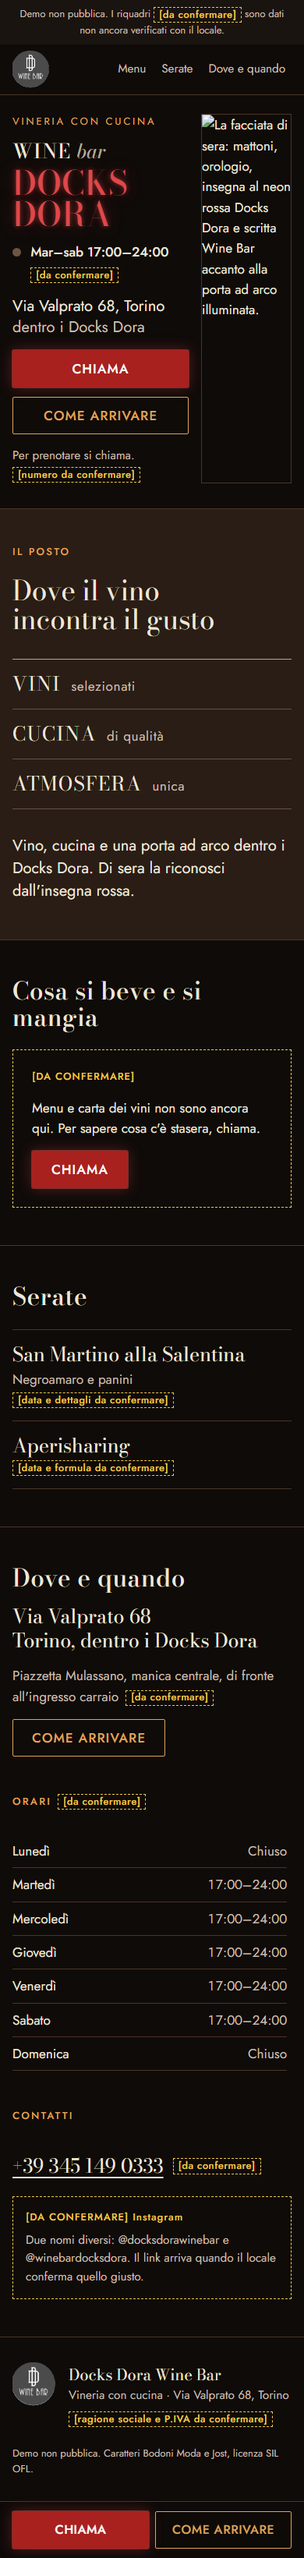
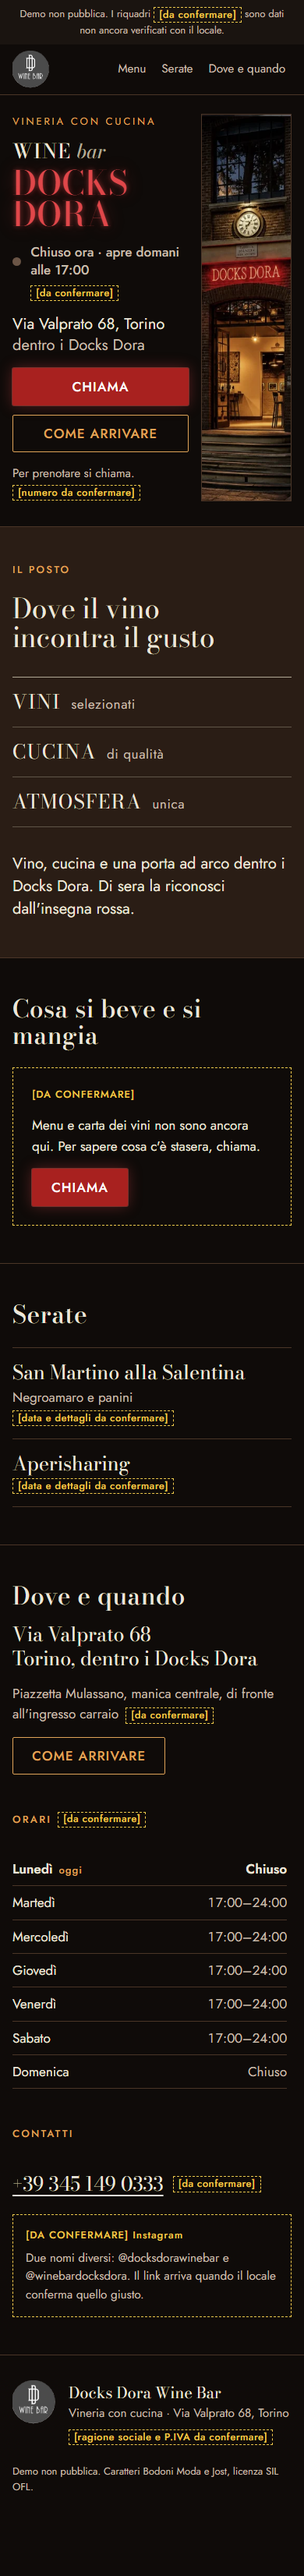
Fase 5: verifica, correzioni (barra fissa, gerarchia Il posto, prima schermata desktop)

diff --git a/css/style.css b/css/style.css
@@ -72,6 +72,7 @@ html {
   -webkit-text-size-adjust: 100%;
   scroll-behavior: smooth;
   scroll-padding-top: var(--s-4);
+  scroll-padding-bottom: calc(var(--altezza-barra) + var(--s-4));
 }
 
 body {
@@ -461,6 +462,9 @@ a { color: var(--ambra); text-underline-offset: 0.2em; }
   border-top: 1px solid var(--mattone-bordo);
   backdrop-filter: blur(6px);
 }
+/* JS nasconde la barra finché i pulsanti della prima schermata sono visibili */
+.barra { transition: transform 0.2s ease-out; }
+.barra--nascosta { transform: translateY(110%); visibility: hidden; transition: transform 0.2s ease-out, visibility 0s 0.2s; }
 .barra .bottone { padding-inline: var(--s-2); letter-spacing: 0.03em; font-size: 1rem; white-space: nowrap; }
 
 /* Da 360px in giù: un po' più stretto */
@@ -510,5 +514,5 @@ a { color: var(--ambra); text-underline-offset: 0.2em; }
 @media (prefers-reduced-motion: reduce) {
   html { scroll-behavior: auto; }
   .insegna__nome { animation: none; }
-  .bottone { transition: none; }
+  .bottone, .barra, .barra--nascosta { transition: none; }
 }

diff --git a/js/main.js b/js/main.js
@@ -260,7 +260,18 @@ const DATI = {
     box.replaceWith(ul);
   }
 
+  // La barra fissa compare quando Chiama / Come arrivare della prima schermata escono dallo schermo
+  function gestisciBarra() {
+    const barra = document.querySelector(".barra");
+    const azioni = document.querySelector(".azioni");
+    if (!barra || !azioni || !("IntersectionObserver" in window)) return;
+    new IntersectionObserver(([voce]) => {
+      barra.classList.toggle("barra--nascosta", voce.isIntersecting);
+    }).observe(azioni);
+  }
+
   mostraContatti();
+  gestisciBarra();
   mostraPilastri();
   mostraOrari();
   mostraStato();

diff --git a/README.md b/README.md
@@ -1,37 +1,63 @@
-# template-vetrina
+# Docks Dora Wine Bar: sito demo
 
-Punto di partenza per i siti vetrina one-page dei clienti. Contiene solo le regole
-(`CLAUDE.md`): il sito lo costruisce Claude Code.
+Sito one-page per **Docks Dora Wine Bar**, vineria con cucina in Via Valprato 68, Torino,
+dentro i Docks Dora. **Demo non pubblica**: `noindex` e `robots.txt` chiuso. Il locale non è
+stato contattato.
 
-## Nuovo cliente
+HTML, CSS e JavaScript puri, nessuna build. Generato dal template `template-vetrina`
+(regole in `CLAUDE.md`).
 
-1. Su GitHub: **Use this template → Create a new repository**, proprietario
-   `siti-web-torino`, nome del cliente in minuscolo con trattini (es. `quartin-torino`).
-   Poi clonalo sul tuo computer.
-2. Copia le foto del cliente (menu, logo, locale, slogan, cose divertenti) in
-   `img-originali/`.
-3. Apri un terminale nella cartella del progetto e lancia `claude` (modello più forte per
-   questa corsa: `/model`).
-4. Incolla il messaggio che ti prepara la chat di avvio, in questa forma:
+## Aprire il sito
+- Doppio clic su `index.html` (si apre nel browser), oppure
+- da un terminale in questa cartella: `python -m http.server 8765` e poi
+  <http://localhost:8765/>.
 
-   ```
-   Nuovo cliente: [NOME], [VIA, QUARTIERE], Torino. Tipo: [pizzeria / bar / ...].
-   Note: [quello che sai]
-   Foto in img-originali/.
-   Preferenze mie, facoltative e non vincolanti: [...]
-   Segui CLAUDE.md. Lavora da solo fino alla fine.
-   ```
+## Dove si cambiano i contenuti
+Tutti i dati modificabili stanno nell'oggetto `DATI` in cima a **`js/main.js`**:
 
-5. Al termine leggi, in questo ordine: `RAPPORTO.md`, gli screenshot in `docs/anteprime/`,
-   il menu trascritto in `STUDIO.md` e `DECISIONI.md`.
+| Cosa | Campo in `DATI` |
+|---|---|
+| Orari (per giorno, `null` = chiuso) | `orari.giorni` |
+| Togliere [da confermare] dagli orari | `orari.confermato: true` |
+| Telefono | `telefono.numero` (per il link), `telefono.testo` (come si legge), `telefono.confermato` |
+| Dove si trova dentro i Docks Dora | `comeTrovarlo.testo`, `comeTrovarlo.confermato` |
+| Instagram | `instagram: "nomeaccount"` (oggi `null`: nessun link) |
+| Serate | `eventi`: `nome`, `dettaglio`, `data` ("2026-11-11"), `confermato` |
+| Menu | `menu`: elenco di voci; finché è vuoto resta il riquadro [DA CONFERMARE] |
+| Indirizzo, tipo, claim, pilastri | `indirizzo`, `tipo`, `claim`, `pilastri` |
 
-## Repository prima, deploy dalla repository
-Per **ogni** sito si crea prima la repo dedicata qui nell'organizzazione, partendo dal template.
-Il codice e i controlli si salvano in quella repo; poi si usa l'integrazione GitHub già collegata a Vercel, si seleziona/importa la repo e si avvia **Deploy**.
-Anche gli aggiornamenti successivi passano dalla stessa repo. Un sito richiesto pubblico va verificato dal link di produzione senza login o autorizzazioni.
-Repo pubblica/privata e sito pubblico/privato sono due scelte distinte: mantieni le impostazioni concordate con l'utente.
+L'HTML contiene gli stessi testi come riserva per chi ha JavaScript spento: se cambi un dato
+in `DATI`, il sito mostra quello di `DATI`. I riquadri fissi in HTML (P.IVA nel piè di pagina)
+si cambiano direttamente in `index.html`.
 
-## Perché CLAUDE.md non cambia da solo
-È un normale file di testo. Cambia solo se lo modifichi tu o se chiedi a Claude di farlo
-("aggiungi questa regola al CLAUDE.md"). Ogni nuovo cliente riceve una copia al momento
-della creazione dal template: migliorare il template non cambia i siti già fatti.
+L'indicatore "Aperto ora / Chiuso ora" si calcola da `orari.giorni` con l'ora di Torino.
+
+## Elenco dei [DA CONFERMARE]
+1. **Orari** mar–sab 17:00–24:00, domenica e lunedì chiuso (solo dal brief).
+2. **Telefono** +39 345 149 0333 (solo dal brief). È anche il pulsante Chiama.
+3. **Posizione dentro i Docks Dora**: "piazzetta Mulassano, manica centrale, di fronte
+   all'ingresso carraio" (da vivoin.it, fonte terza).
+4. **Instagram**: brief @docksdorawinebar, locandina @winebardocksdora. Nessun link finché non
+   si sa quale è giusto.
+5. **Menu e carta vini**: non forniti.
+6. **Serate** "San Martino alla Salentina" (Negroamaro e panini) e "Aperisharing": date e
+   dettagli mancanti.
+7. **Ragione sociale e P.IVA**: non forniti.
+8. **Data di apertura**: il brief dice settembre 2026, una fonte web segnala un evento al bar
+   il 12/06/2026. Non usata nel sito.
+9. **Permesso d'uso** della foto della locandina e del logo (file originale del logo, meglio
+   se vettoriale: quello attuale è tagliato di ~5 px in alto e a sinistra).
+
+## Cartelle
+- `index.html`, `css/style.css`, `js/main.js`: il sito.
+- `img/`: immagini ottimizzate (WebP senza EXIF). `img-originali/`: originali intatti.
+  `facciata-folla.png` è esclusa da git (persone riconoscibili).
+- `fonts/`: Bodoni Moda e Jost, licenza SIL OFL (testi in `fonts/OFL-*.txt`).
+- `docs/anteprime/`: screenshot a 390, 768, 1280 px.
+- `STUDIO.md` (materiale e ricerca), `DECISIONI.md` (scelte), `RAPPORTO.md` (stato),
+  `docs/VERIFICA.md` (critica del risultato).
+- `strumenti/`: script locali (Pillow, screenshot), ignorati da git.
+
+## Rifare gli screenshot
+Con il server acceso su 8765: `node strumenti/anteprime.mjs` (usa Chrome installato).
+`strumenti/` non è in git: se manca, gli screenshot vanno rifatti a mano.

diff --git a/docs/VERIFICA.md b/docs/VERIFICA.md
@@ -1,0 +1,64 @@
+# VERIFICA: critica del sito demo
+
+Screenshot in `docs/anteprime/` (prima schermata e pagina intera a 390, 768, 1280 px),
+fatti con Chrome headless a densità 1. Data: 2 novembre 2026 (lunedì, quindi lo stato
+mostrato è "Chiuso ora · apre domani alle 17:00").
+
+## Controlli tecnici
+| Controllo | Esito |
+|---|---|
+| Errori in console | 0 a 390, 768, 1280 |
+| File 404 | 0 |
+| Scorrimento orizzontale | nessuno a 320, 390, 768, 1280 (`scrollWidth` = larghezza) |
+| Tastiera | ordine: salta al contenuto, logo, Menu, Serate, Dove e quando, Chiama, Come arrivare…; anello di focus ambra visibile (provato a 390) |
+| Bersagli touch | pulsanti 48 px, link di navigazione 44 px |
+| Contrasto | testo `#ece6da` su `#0f0b09` 15.8:1; secondario 10.8:1; ambra 9:1; Chiama bianco su `#a8211f` 7.2:1; rosso neon `#e0474a` solo su testo grande (4.8:1) |
+| Testi alternativi | foto facciata descritta; logo in testata con nome; logo nel piè decorativo (`alt=""`) |
+| prefers-reduced-motion | toglie l'accensione del neon, lo scorrimento morbido e le transizioni |
+| Apertura da file (`index.html` con doppio clic) | font e JS funzionano (provato in Chrome) |
+| Logica "aperto adesso" | usa l'ora di Torino; mar 18:00 aperto fino alle 24, dom → "apre martedì alle 17:00" (ragionata sul codice; provata dal vivo solo il lunedì) |
+
+## Test dei 5 secondi (390 px, prima schermata)
+Un estraneo vede: **Wine bar Docks Dora, vineria con cucina**, se è aperto, **Via Valprato 68,
+Torino, dentro i Docks Dora**, e due azioni: **Chiama** e **Come arrivare**. Più la foto della
+facciata col neon. Passa.
+Cosa **non** capisce: che cosa si beve e si mangia e a che prezzo. Non è un difetto del design:
+il materiale non c'è.
+
+## Scenario: venerdì sera, telefono, per strada
+- **È aperto?** Risposta nella prima schermata, zero tocchi. Ma l'orario è [da confermare]: se
+  è sbagliato, il sito dice con sicurezza una cosa falsa. È il rischio più grosso della demo.
+- **Dov'è?** Indirizzo nella prima schermata; "Come arrivare" = 1 tocco verso Google Maps.
+  Dove sta il bar dentro il complesso: 1 tocco su "Dove e quando" (o scorrendo), ed è [da
+  confermare].
+- **Cosa si beve o mangia?** 1 tocco su "Menu" e si trova solo il riquadro "non ancora qui,
+  chiama". Punto più debole.
+- **Prenotare**: 1 tocco su Chiama, sempre a portata (barra fissa che compare quando i
+  pulsanti iniziali escono dallo schermo).
+
+## Difetti trovati e cosa ho fatto
+| # | Dove, larghezza | Difetto | Perché conta | Esito |
+|---|---|---|---|---|
+| 1 | Prima schermata, 390 | Pallino dello stato da solo su una riga, testo sotto | Sembrava un elemento rotto proprio nell'informazione più importante | Corretto (griglia pallino + testo) |
+| 2 | Prima schermata, 390 | "Chiama" più stretto di "Come arrivare", allineati male | Gerarchia confusa tra le due azioni | Corretto (pulsanti a tutta larghezza su telefono) |
+| 3 | Barra fissa, 375–390 | "Come arrivare" andava a capo su due righe | Pulsante alto e sbilanciato | Corretto |
+| 4 | Prima schermata, 390 | Due "Chiama" e due "Come arrivare" visibili insieme (pulsanti + barra fissa), 75 px persi | Rumore nella schermata più preziosa | Corretto: la barra compare solo quando i pulsanti iniziali escono dallo schermo; senza JS resta sempre visibile |
+| 5 | "Il posto", tutte | Titolo "Il posto" e claim della stessa taglia e font | Gerarchia piatta: non si capiva quale fosse il messaggio | Corretto: "Il posto" diventa etichetta piccola, il claim è il titolo vero |
+| 6 | "Il posto", 1280 | Colonna destra vuota, testo schiacciato a sinistra | Squilibrio evidente su desktop | Corretto: testo a destra del claim |
+| 7 | Prima schermata, 1280 | Stato e indirizzo minuscoli rispetto al nome | Le informazioni utili si perdevano | Corretto (taglie aumentate su desktop) |
+| 8 | Testo "Il posto", tutte | Ripeteva l'indirizzo per la terza volta | Riempitivo | Riscritto: "Vino, cucina e una porta ad arco dentro i Docks Dora. Di sera la riconosci dall'insegna rossa." (porta ad arco e insegna rossa si vedono nelle foto) |
+
+## Difetti che restano
+- **Foto piccola** (310×740 px, ritagliata dalla locandina). A 1280 è mostrata a 310 px CSS:
+  su schermi ad alta densità è morbida. A 390 regge perché è stretta (~116 px). Serve una foto
+  vera della facciata, di sera, senza persone riconoscibili.
+- **Una sola foto**: sotto la prima schermata il sito è solo tipografia su nero e mattone.
+  Coerente, ma piatto. Niente galleria finché non ci sono almeno 3 foto.
+- **Il nome a 1280**: in "DOCKS DORA" la gamba della R di Bodoni Moda lascia un vuoto prima
+  della A che sembra uno spazio. Difetto del carattere a quella taglia; lasciato.
+- **Riga "Demo non pubblica"** in cima: 55 px su telefono. Va tolta quando il sito diventa vero.
+- **"Atmosfera unica"** suona da brochure, ma è scritto sulla locandina del locale: non lo
+  sostituisco (regola: le frasi del locale si riusano come sono).
+- **Identità**: grazie a neon, mattone e tipografia della locandina sembra il locale nella
+  prima schermata. Sotto, senza foto e senza menu, rischia di sembrare un buon template scuro.
+  Si risolve con contenuti veri, non con il design.

diff --git a/DECISIONI.md b/DECISIONI.md
@@ -56,4 +56,16 @@ Scelte fatte in autonomia e perché. Fonti abbreviate come in STUDIO.md: [brief]
 È quella più fedele al locale: rosso neon, mattone e luce ambra sono le tre cose che si vedono in **entrambe** le foto della facciata, e il neon è anche il segno con cui si trova la porta di sera dentro un complesso grande (criterio 4). Da C prendo l'indicatore "Aperto adesso / fino alle 24" in cima (criterio 3); da B il serif maiuscolo e il corsivo usato una volta sola, che sono la tipografia reale della locandina. Scarto B perché ricalca un'inaugurazione già passata e rischia lo snob; scarto C perché è freddo e spinge su una storia non verificata.
 
 ## Costruzione
-(vedi sotto, aggiornato durante la fase 4)
+
+| # | Decisione | Motivo |
+|---|---|---|
+| C1 | Font: Bodoni Moda (variabile, con italico) e Jost, entrambi SIL OFL, presi dai pacchetti npm `@fontsource-variable/*@5.3.0` e copiati in `fonts/` con le licenze. | Stack senza CDN; serif ad alto contrasto come la locandina, sans geometrico vicino al "WINE BAR" del logo. |
+| C2 | Prima schermata da telefono: testo a sinistra, striscia verticale della facciata a destra (~116 px). | La foto è verticale e piccola: in una striscia stretta resta nitida e porta l'identità nella prima schermata senza spingere giù orari e azioni (criterio 1). |
+| C3 | Pulsante Chiama rosso insegna `#a8211f` con bianco, "Come arrivare" in contorno ambra. | Un'azione principale riconoscibile (criterio 2); il rosso neon puro `#e0474a` con testo bianco non passa AA. |
+| C4 | Barra fissa in basso fino a 959 px; su desktop sparisce e Chiama sale nella testata. | Criterio 2; su desktop la barra copre contenuto senza vantaggio. |
+| C5 | La barra fissa si nasconde mentre i pulsanti della prima schermata sono visibili. | Evitava doppioni nella schermata più preziosa (VERIFICA #4). |
+| C6 | L'indicatore "Aperto ora" si calcola con l'ora di Europe/Rome, non con quella del telefono. | Un turista con il telefono su un altro fuso vedrebbe lo stato sbagliato. |
+| C7 | Testi scritti da me, brevi: "Per prenotare si chiama.", "Vino, cucina e una porta ad arco dentro i Docks Dora. Di sera la riconosci dall'insegna rossa.", "Menu e carta dei vini non sono ancora qui. Per sapere cosa c'è stasera, chiama." | Solo fatti visibili nelle foto o nel brief; tono diretto, niente aggettivi. |
+| C8 | Riga "Demo non pubblica" in cima e nel piè. | Chi la vede capisce subito che i riquadri gialli sono dati da verificare. Va tolta per la versione vera. |
+| C9 | Nessun iframe, nessun embed Instagram, nessun servizio esterno a parte il link a Google Maps. | CLAUDE.md e brief. |
+| C10 | `README.md` del template sostituito con quello del sito. | La repo ora è del cliente; le istruzioni del template restano in `CLAUDE.md` e nel repository template. |
